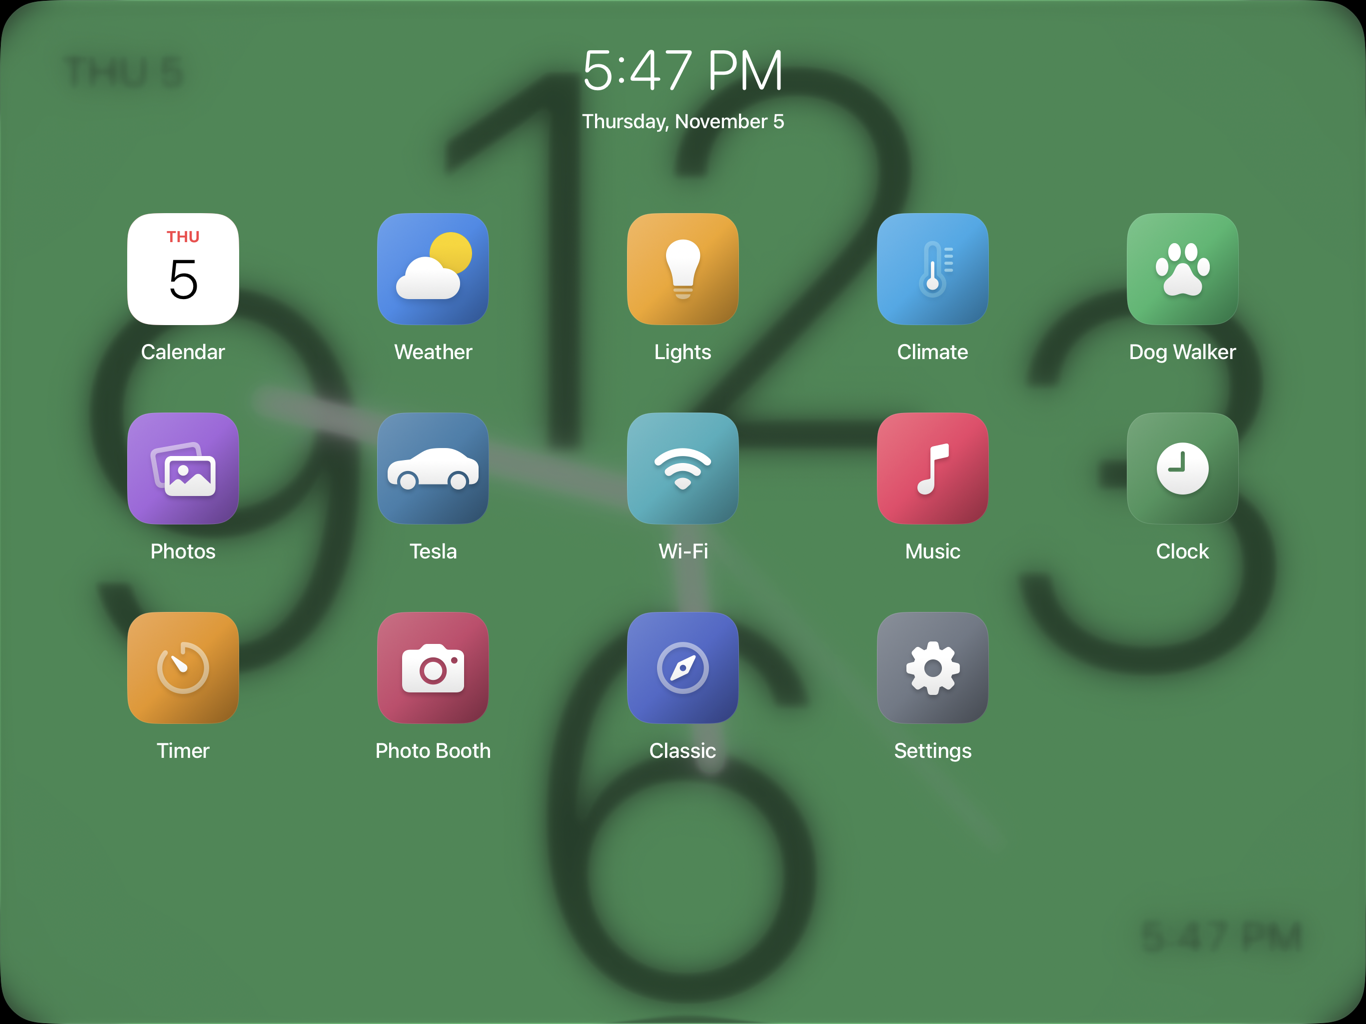
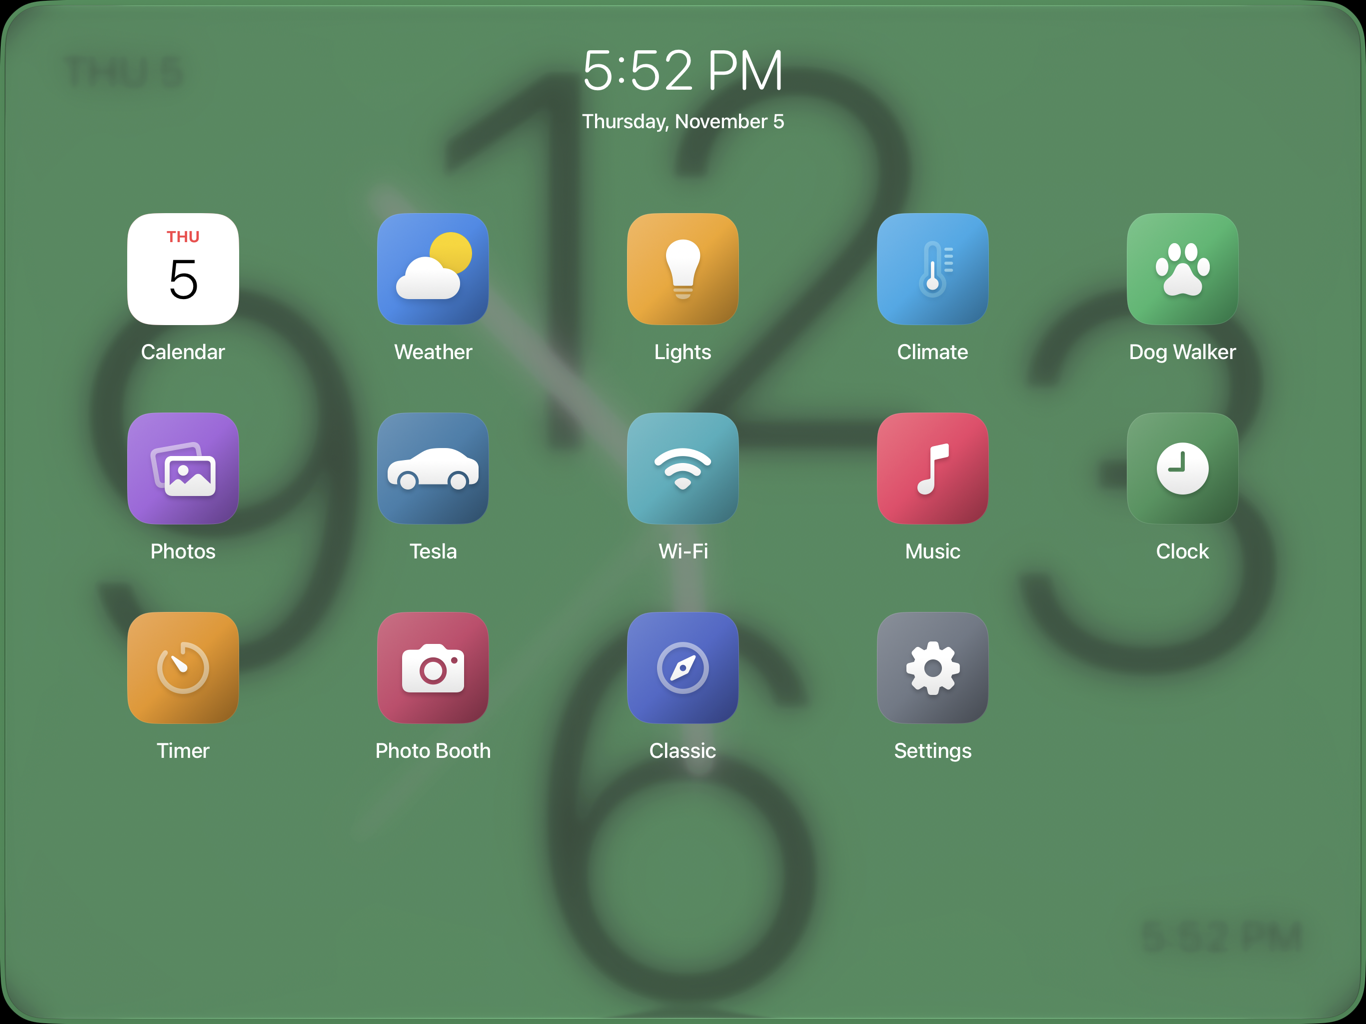
feat(panel): refine glass inset and clock depth

diff --git a/apps/apple-prototype/Sources/HomeView.swift b/apps/apple-prototype/Sources/HomeView.swift
@@ -96,10 +96,10 @@ struct HomeView: View {
         return nil
     }
     private func home() {
-        withAnimation(reduceMotion ? nil : launcherMotion.animation) { shell.showLauncher(); faceDrag = 0 }
+        withAnimation(reduceMotion ? nil : .spring(duration: 0.25, bounce: 0)) { shell.showLauncher(); faceDrag = 0 }
     }
     private func clock() {
-        withAnimation(reduceMotion ? nil : launcherMotion.animation) { shell.showClock(); faceDrag = 0 }
+        withAnimation(reduceMotion ? nil : .spring(duration: 0.25, bounce: 0)) { shell.showClock(); faceDrag = 0 }
     }
     private func clockLauncherSwipe(width: CGFloat, towardClock: Bool) -> some Gesture {
         DragGesture(minimumDistance: 12, coordinateSpace: .global)
@@ -116,7 +116,7 @@ struct HomeView: View {
                    distance > width * 0.18 || projected > width * 0.35 {
                     if towardClock { clock() } else { home() }
                 } else {
-                    withAnimation(reduceMotion ? nil : launcherMotion.animation) { faceDrag = 0 }
+                    withAnimation(reduceMotion ? nil : .spring(duration: 0.25, bounce: 0)) { faceDrag = 0 }
                 }
             }
     }
@@ -142,10 +142,9 @@ struct HomeView: View {
                     .accessibilityIdentifier("launcher-clock")
                 AppLauncher(apps: catalog.visibleApps(classicSupported: integration?.supportsClassic ?? false), open: open, namespace: zoom)
                     .environment(\.motionPhase, selected == nil && !showingClock ? nil : 0)
-                    .scaleEffect(reduceMotion ? 1 : 1.025 - 0.025 * progress)
+                    .scaleEffect(reduceMotion ? 1 : 1.015 - 0.015 * progress)
                     .background {
-                        // One native navigation surface samples the living clock below.
-                        Color.clear.glassEffect(.regular, in: .rect(cornerRadius: PanelSurface.cornerRadius))
+                        LauncherGlassSurface()
                     }
                     .opacity(Double(progress))
                     .clipShape(.rect(cornerRadius: PanelSurface.cornerRadius))

diff --git a/apps/apple-prototype/HybridUITests/LauncherMotionCaptureTests.swift b/apps/apple-prototype/HybridUITests/LauncherMotionCaptureTests.swift
@@ -104,16 +104,19 @@ import XCTest
         XCTAssertTrue(app.descendants(matching: .any)["launcher-clock"].firstMatch.waitForExistence(timeout: 15))
         print("MOTION_CAPTURE_READY \(style)")
         Thread.sleep(forTimeInterval: 2) // Capture lead-in; never used for correctness assertions.
-        app.openAppGrid()
+        let window = app.windows.firstMatch
+        window.coordinate(withNormalizedOffset: CGVector(dx: 0.8, dy: 0.5)).press(forDuration: 0.05,
+            thenDragTo: window.coordinate(withNormalizedOffset: CGVector(dx: 0.2, dy: 0.5)),
+            withVelocity: .fast, thenHoldForDuration: 0)
         XCTAssertTrue(app.buttons["app-clock"].waitForExistence(timeout: 10))
         let screenshot = XCTAttachment(screenshot: app.windows.firstMatch.screenshot())
         screenshot.name = "clock-glass-home"
         screenshot.lifetime = .keepAlways
         add(screenshot)
         Thread.sleep(forTimeInterval: 2)
-        let window = app.windows.firstMatch
-        window.coordinate(withNormalizedOffset: CGVector(dx: 0.2, dy: 0.85)).press(forDuration: 0.1,
-            thenDragTo: window.coordinate(withNormalizedOffset: CGVector(dx: 0.8, dy: 0.85)))
+        window.coordinate(withNormalizedOffset: CGVector(dx: 0.2, dy: 0.85)).press(forDuration: 0.05,
+            thenDragTo: window.coordinate(withNormalizedOffset: CGVector(dx: 0.8, dy: 0.85)),
+            withVelocity: .fast, thenHoldForDuration: 0)
         XCTAssertTrue(app.buttons["app-clock"].waitForNonExistence(timeout: 5))
         Thread.sleep(forTimeInterval: 1)
         print("MOTION_CAPTURE_DONE \(style)")

diff --git a/apps/apple-prototype/Sources/Apps/AppLauncher.swift b/apps/apple-prototype/Sources/Apps/AppLauncher.swift
@@ -43,6 +43,23 @@ struct AppLauncher: View {
     }
 }
 
+/// Native glass above the clock, with system material supplying additional frost.
+/// The inset and concentric corners leave a slim, uninterrupted rim of the dial.
+struct LauncherGlassSurface: View {
+    private let edgeInset: CGFloat = 5
+    var body: some View {
+        let shape = RoundedRectangle(cornerRadius: PanelSurface.cornerRadius - edgeInset)
+        Rectangle().fill(.ultraThinMaterial).opacity(0.35)
+            .clipShape(shape)
+            .overlay {
+                Color.clear.glassEffect(.regular.tint(.white.opacity(0.06)), in: shape)
+            }
+            .padding(edgeInset)
+            .allowsHitTesting(false)
+            .accessibilityHidden(true)
+    }
+}
+
 /// Shared edge gesture: only the bottom centre 88 pt are reserved, leaving app scroll
 /// views and controls alone. No visible navigation bar or page dots.
 struct SwipeHomeRegion: View {

diff --git a/apps/apple-prototype/Sources/PresenceClockView.swift b/apps/apple-prototype/Sources/PresenceClockView.swift
@@ -124,7 +124,9 @@ struct GreenClockDial: View {
             Circle().strokeBorder(handColor, lineWidth: max(1.5, w * 0.16))
                 .background(Circle().fill(night ? .black : Self.green))
                 .frame(width: w * 0.75, height: w * 0.75)
-        }.frame(width: 0, height: 0).position(layout.center)
+        }.compositingGroup()
+            .shadow(color: .black.opacity(0.2), radius: 3, x: 0, y: 3)
+            .frame(width: 0, height: 0).position(layout.center)
     }
 
     /// HomeView-style hand: a thin neck from the pin, then a full-width rounded blade.

diff --git a/apps/apple-prototype/Hybrid/README.md b/apps/apple-prototype/Hybrid/README.md
@@ -3,6 +3,8 @@
 Panel starts on the green clock. Swipe left to reveal the vertically scrolling app
 launcher on one full-screen native Liquid Glass surface over the same living clock.
 The clock stays fixed beneath the glass; swipe right or choose Clock to uncover it.
+The glass follows the screen corners with a 5-point inset, extra system-material
+frosting, and a quarter-second reveal. The hands cast a subtle shadow on the dial.
 The launcher has no photographic wallpaper or Background picker. Each app opens
 full screen, and its Back button restores the launcher. Reduce Motion removes
 the launcher’s small depth animation.
